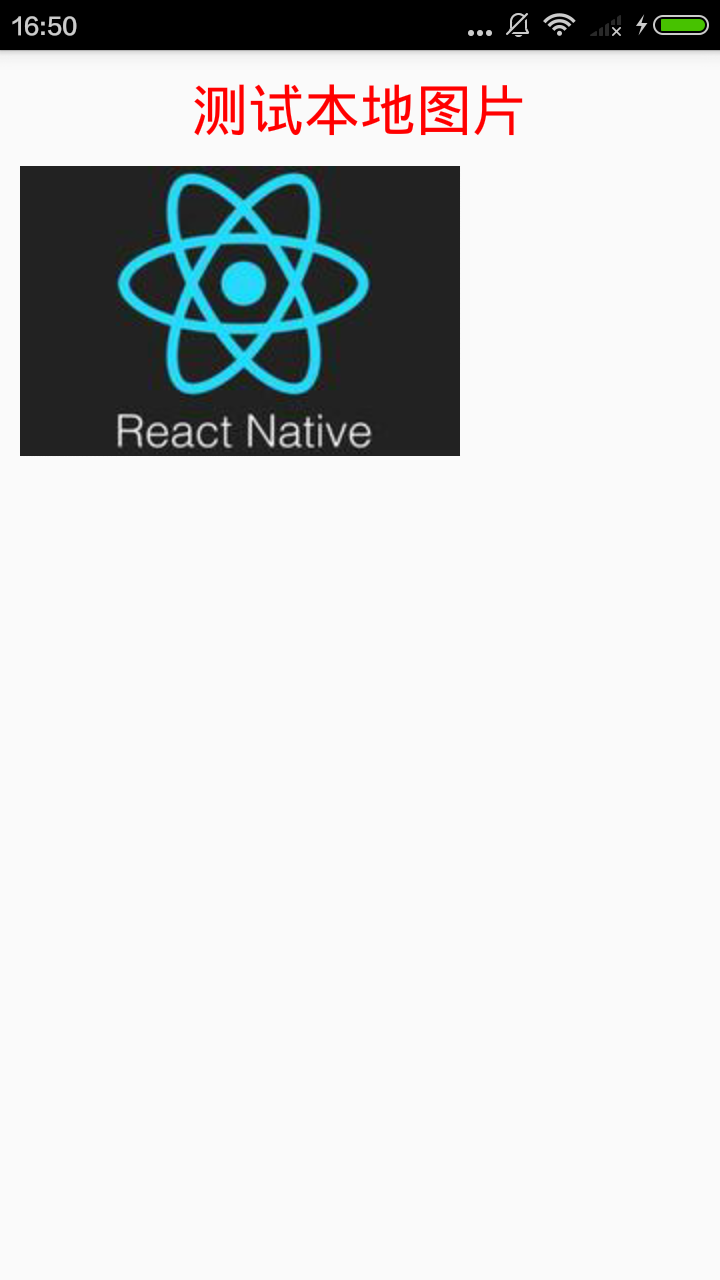
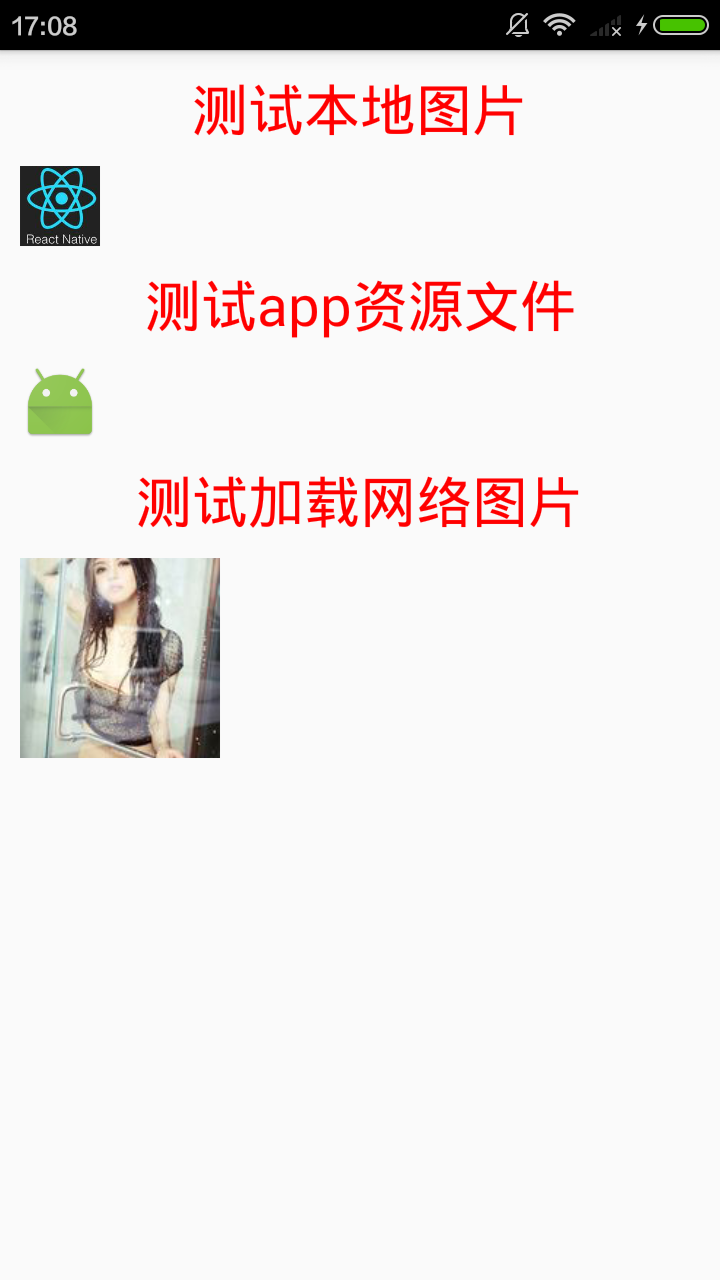
Image组件

Changed region(s): [[0.0306, 0.125, 0.7944, 0.5938], [0.0306, 0.0, 0.1222, 0.0312]]

diff --git a/index.android.js b/index.android.js
@@ -10,10 +10,16 @@ import {
 var HelloWor = React.createClass({
   render: function() {
     return (
+          /**
+          *1. 注意本地路径地址，根目录为HelloWorld项目文件夹(此注释不能放在view内部)
+          */
       <View style = {{marginLeft:10,marginRight:10}}>
           <Text style = {styles.titleBase}>测试本地图片</Text>
-          //注意本地路径地址，根目录为HelloWorld项目文件夹
-          <Image source = {require('./android/img/my_icon.jpg')}/>
+          <Image source = {require('./android/img/my_icon.jpg')}  style = {{width:40,height:40}}/>
+          <Text style = {styles.titleBase}>测试app资源文件</Text>
+          <Image source = {{uri:'ic_launcher'}} style = {{width:40,height:40}}/>
+          <Text style = {styles.titleBase}>测试加载网络图片</Text>
+          <Image source = {{uri:'https://ss0.baidu.com/-Po3dSag_xI4khGko9WTAnF6hhy/image/h%3D200/sign=8e07ecabb7fb4316051f7d7a10a54642/5882b2b7d0a20cf482c772bf73094b36acaf997f.jpg'}} style = {{width:100,height:100}}/>
       </View>
     );
   }
